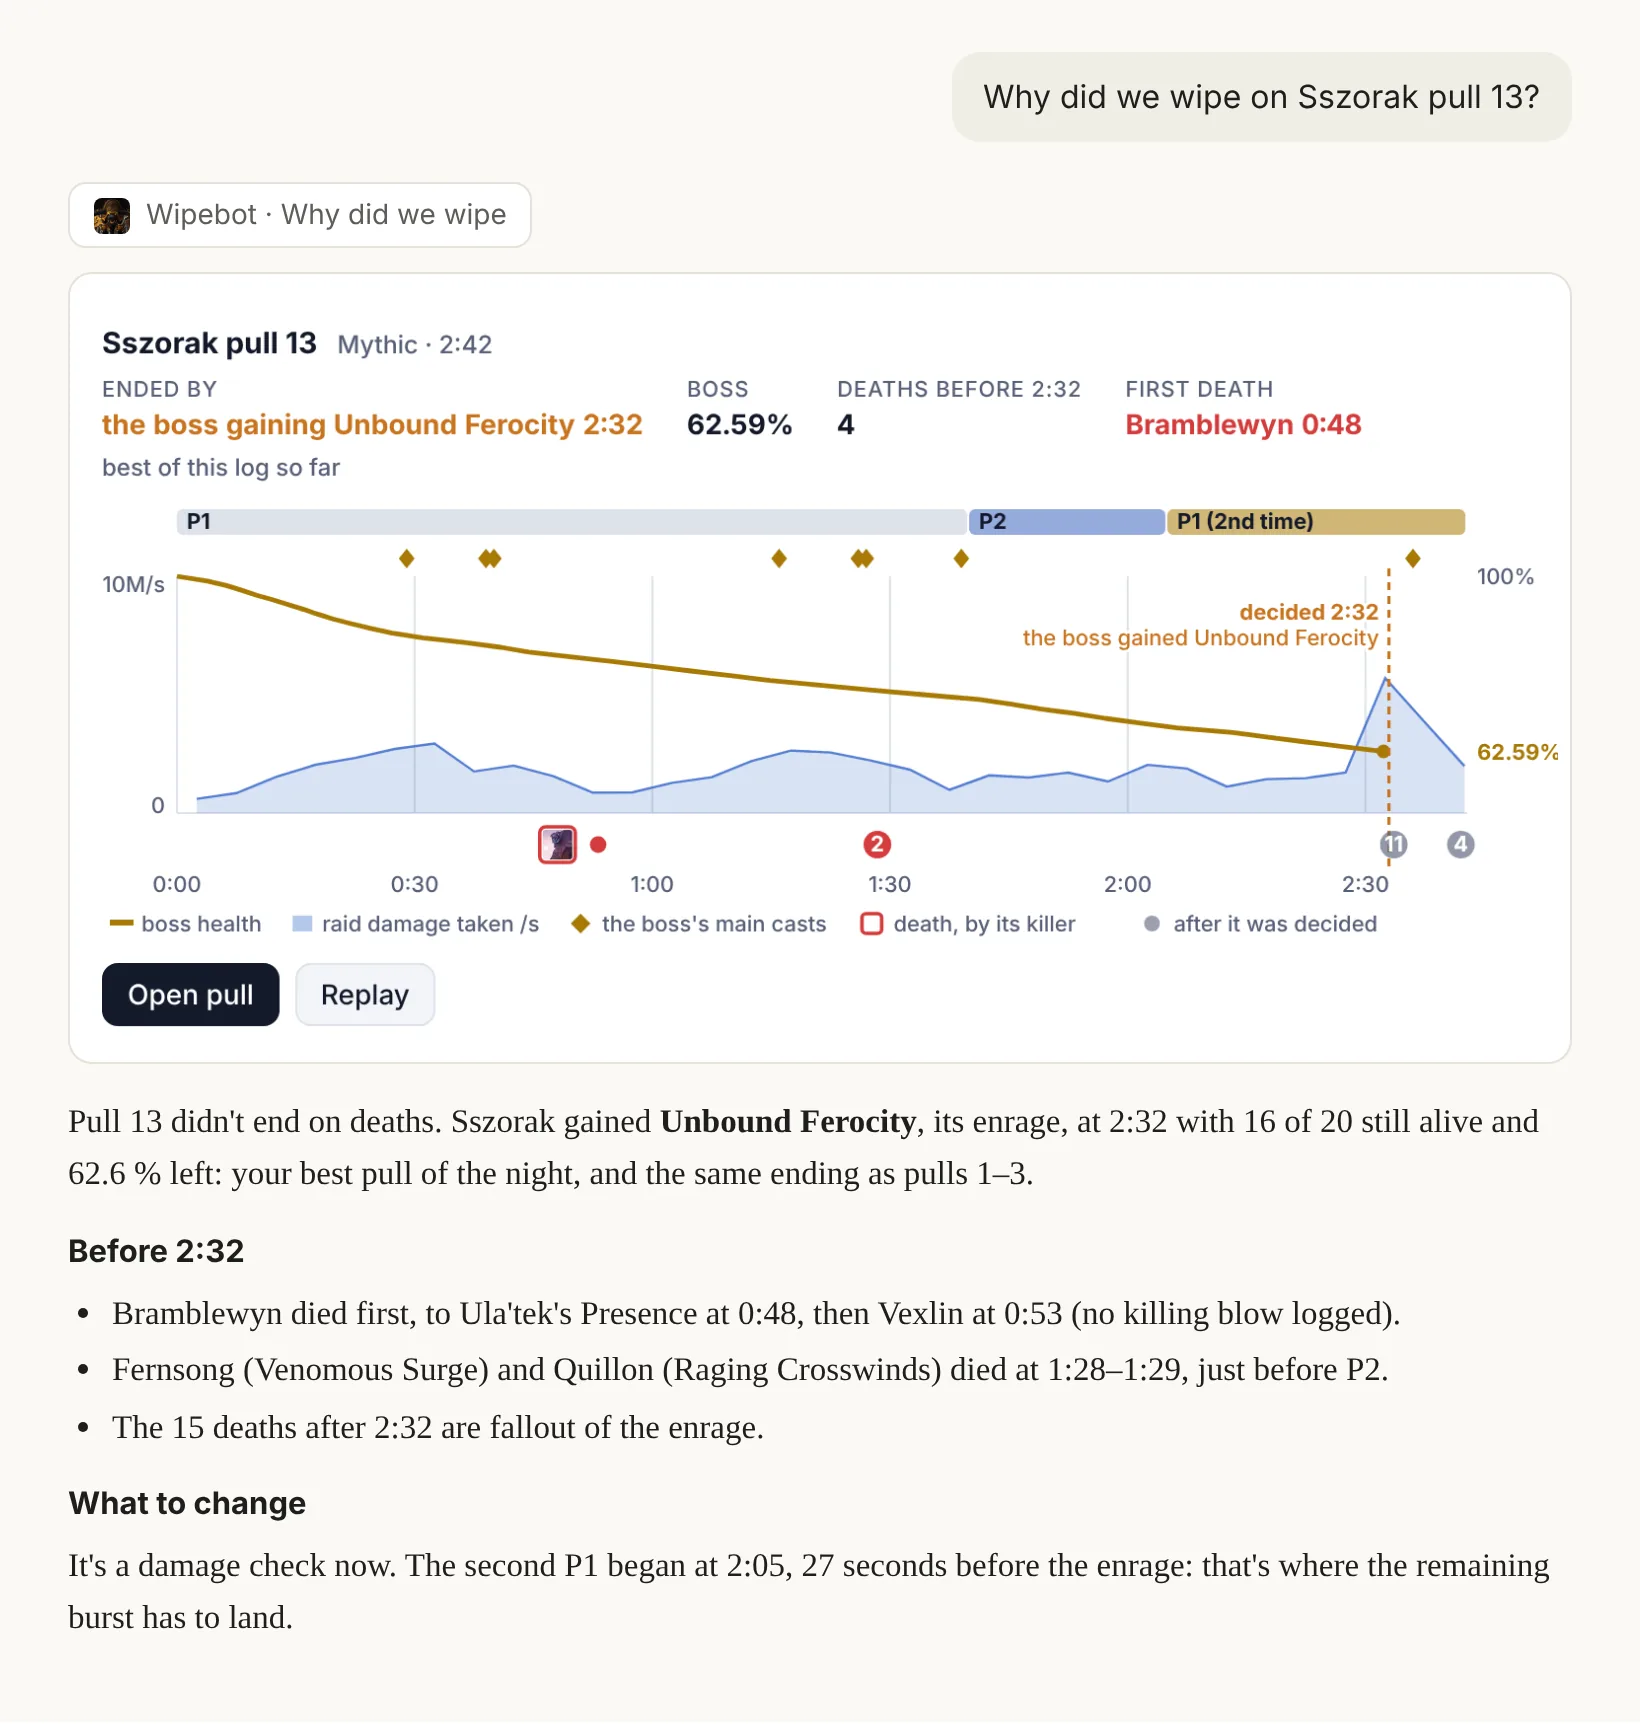
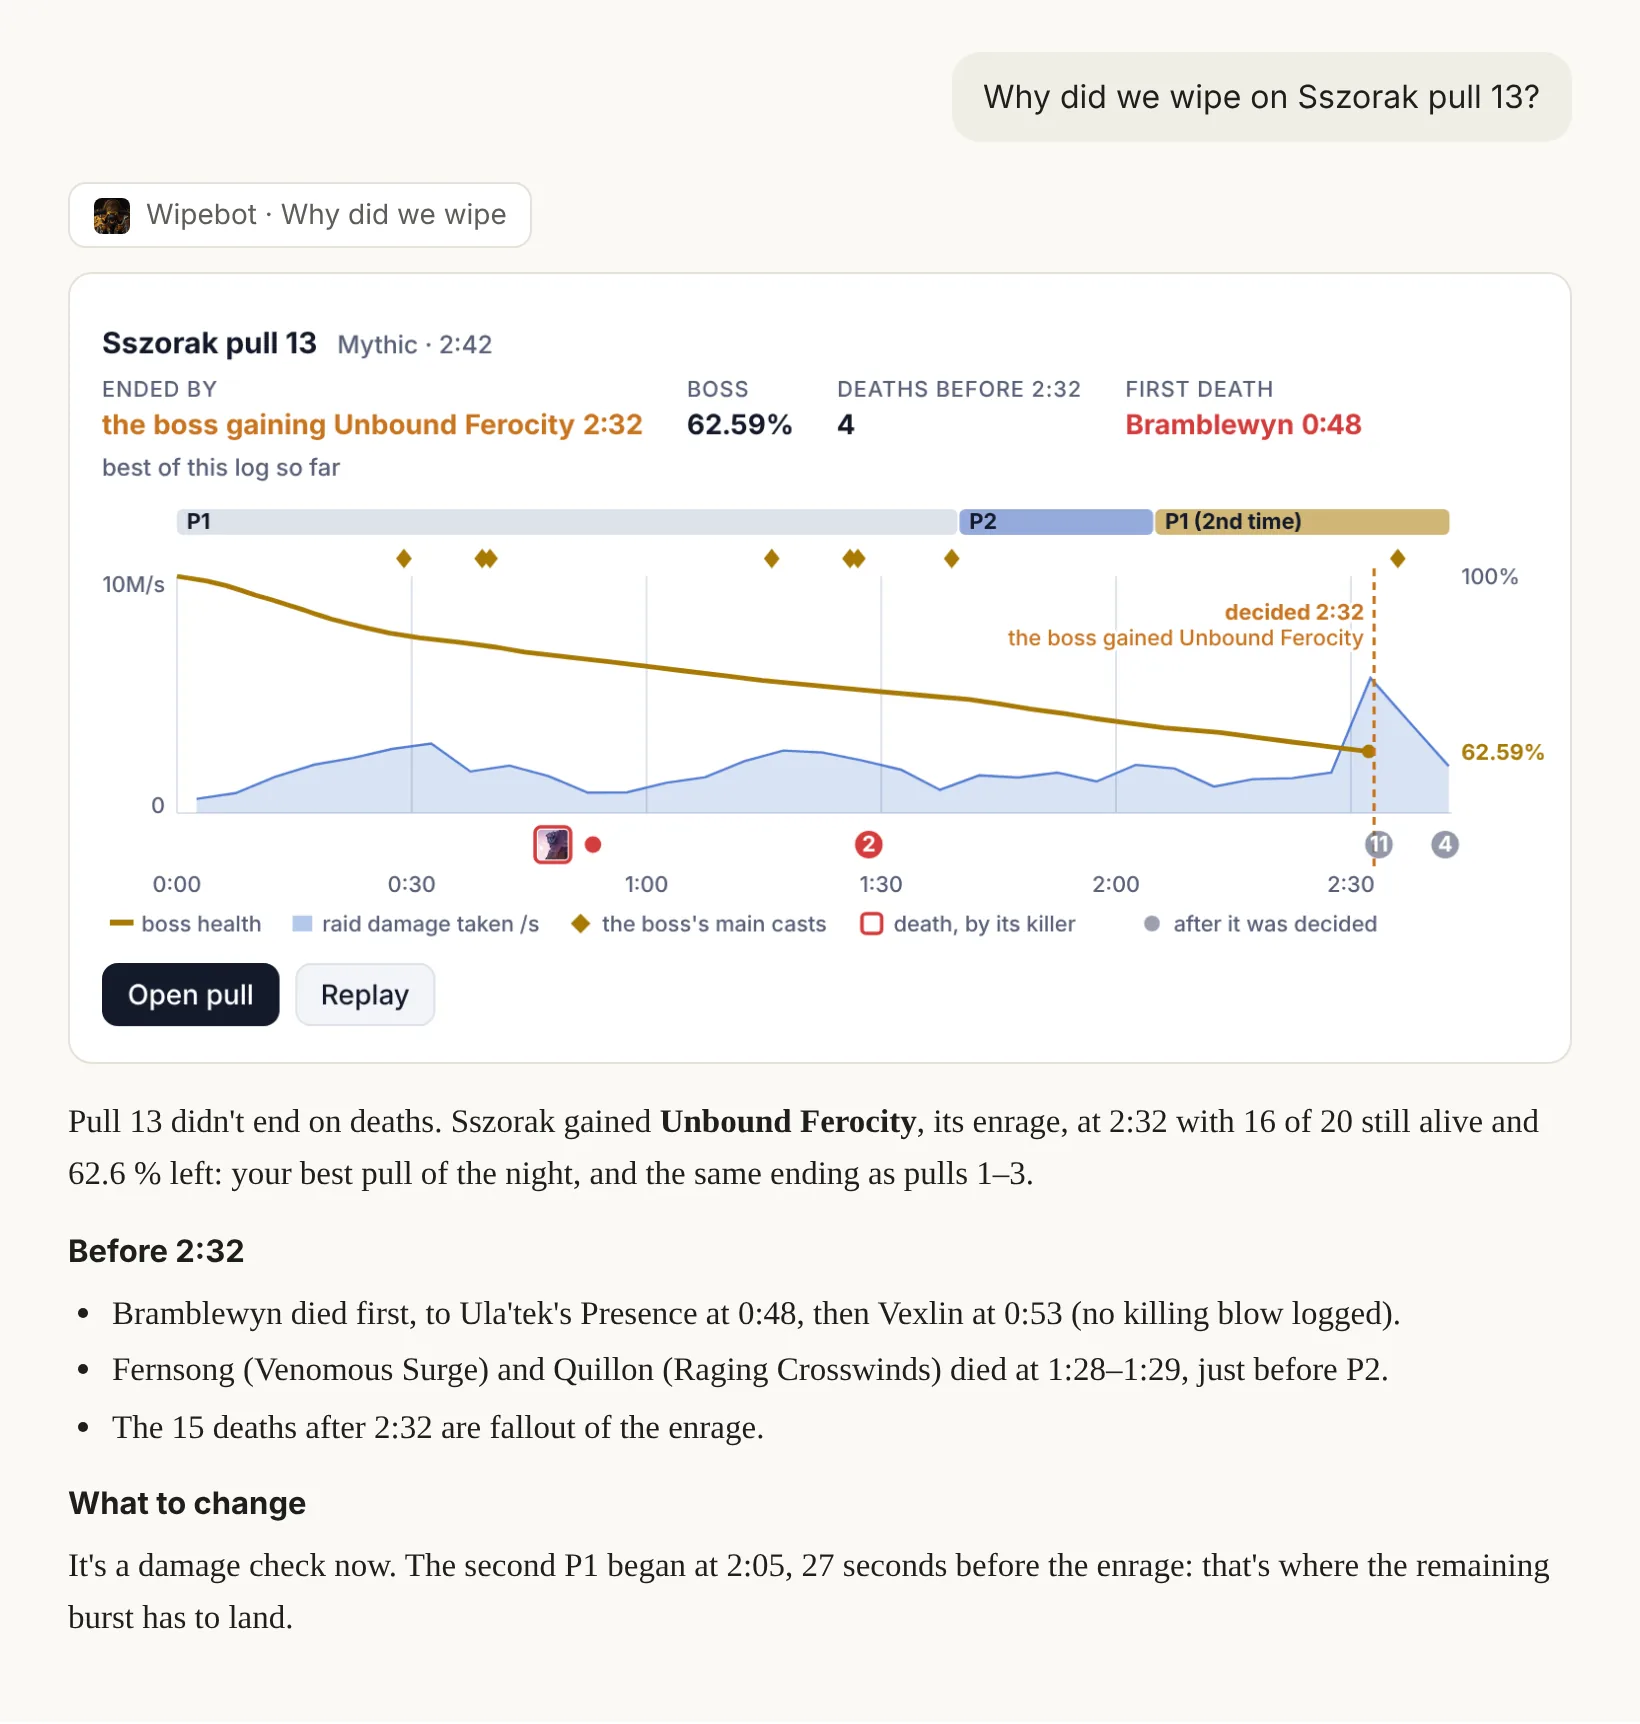
fix(agent): the pull's picture has room for the boss's health at the end
Its right margin cut 62.59% to 62.59 in Claude and ChatGPT. The README's and features.md's examples are
drawn again with it.

diff --git a/src/wipebot/core/app/pull.js b/src/wipebot/core/app/pull.js
@@ -50,11 +50,11 @@ views.pull = (() => {
     drawnWidth = root.clientWidth;
     const width = Math.max(300, drawnWidth || 640);
     if (app.picture()) {  // a still picture: the card without its buttons
-      root.innerHTML = head + stats() + `<div id="pv-chart">${chart({ W: width, L: 40, R: 46, plotH: 130 })}</div>`;
+      root.innerHTML = head + stats() + `<div id="pv-chart">${chart({ W: width, L: 40, R: 54, plotH: 130 })}</div>`;
       return;
     }
     if (!full) {
-      root.innerHTML = head + stats() + `<div id="pv-chart">${chart({ W: width, L: 40, R: 46, plotH: width < 500 ? 100 : 120 })}</div>`
+      root.innerHTML = head + stats() + `<div id="pv-chart">${chart({ W: width, L: 40, R: 54, plotH: width < 500 ? 100 : 120 })}</div>`
         + `<div class="actions">${app.canGoFullscreen() ? '<button class="primary" id="pv-open">Open pull</button>' : ""}`
         + `<button id="pv-replay">Replay</button></div>`;
       const o = root.querySelector("#pv-open");

diff --git a/CHANGELOG.md b/CHANGELOG.md
@@ -6,6 +6,10 @@ The format is based on [Keep a Changelog](https://keepachangelog.com/en/1.1.0/).
 
 ## [Unreleased]
 
+### Fixed
+
+- `Agent` **The boss's health at the end of a pull isn't cut off.** The pull's picture had too little room on the right for a value such as 62.59%, which lost its last digit in Claude and ChatGPT.
+
 ## [0.13.0] - 2026-10-27
 
 ### Added
